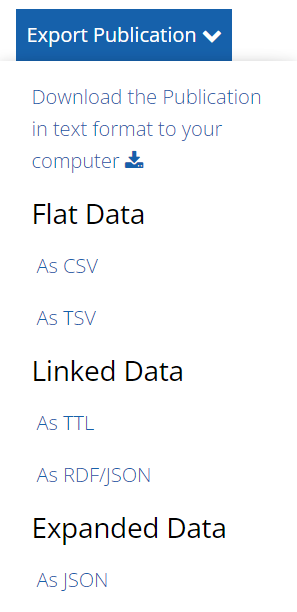
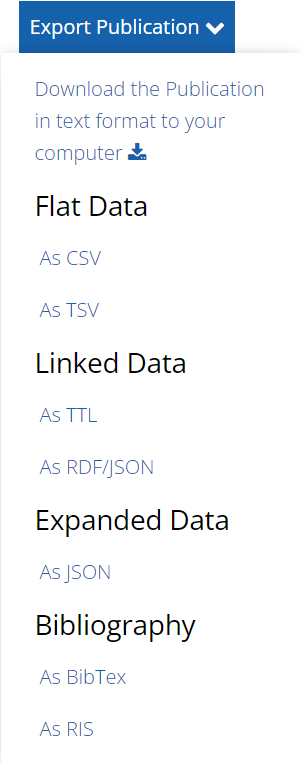
changes docs to fit Bib section in single view dd

diff --git a/Publications Export/publication-export-dev.md b/Publications Export/publication-export-dev.md
@@ -25,7 +25,7 @@ authors:
 - For publications, this drop-down is also on the publication single view page. The drop-down looks like this - <br>
 ![publication drop-down](/cdli-docs/images/publication-dd.png)
 
-- The bibliographical data can be downloaded from the `"Cite this Publication"` section at the bottom of the page. But, on the index page this is included in the drop-down. The single view drop-down can be found in the `app/cake/templates/Publications/view.php` file.
+- The bibliographical data can also be downloaded from the `"Cite this Publication"` section at the bottom of the page. The single view drop-down can be found in the `app/cake/templates/Publications/view.php` file.
 
 - The only exception here is the index page drop-down. It has two columns `"Download current page"` and `"Download all results"`. This is done to handle the fact that in most cases the user will not be able to download all the results as the data would be too large.
 

diff --git a/Publications Export/publication-export-editors.md b/Publications Export/publication-export-editors.md
@@ -32,7 +32,7 @@ authors:
   - Expanded Data 
     - JSON
 
-- The data can be downloaded by simply clicking on one of the links. The bibliographical data can be downloaded from the `"Cite this Publication"` section at the bottom of the page.
+- The data can be downloaded by simply clicking on one of the links. The bibliographical data can also be downloaded from the `"Cite this Publication"` section at the bottom of the page.
 
 ## Multiple Publications
 

diff --git a/Publications Export/publication-export-users.md b/Publications Export/publication-export-users.md
@@ -22,7 +22,7 @@ On hovering, the drop-down looks like this - <br>
 
 - The data can be downloaded by simply clicking on one of the links.
 
-- The bibliographical data can be downloaded from the `"Cite this Publication"` section at the bottom of the page.
+- The bibliographical data can also be downloaded from the `"Cite this Publication"` section at the bottom of the page.
 
 ## Multiple Publications
 
